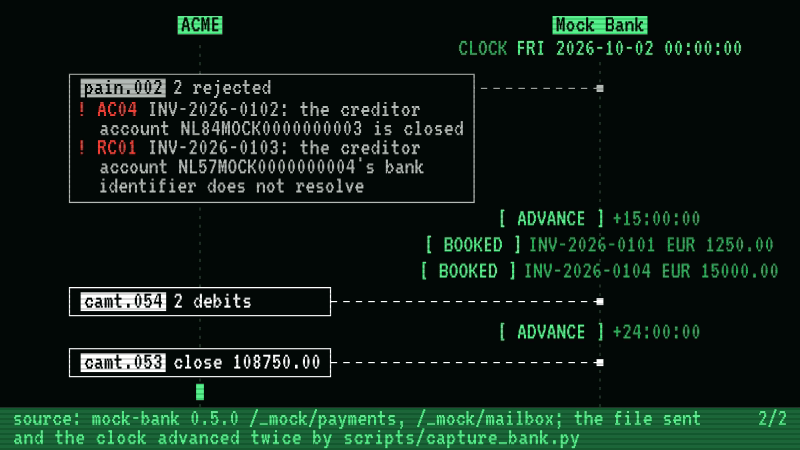
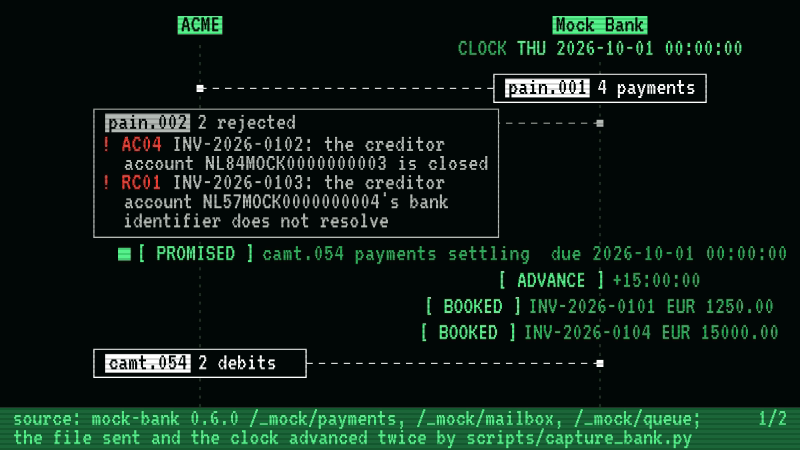
Films: mock-bank 0.6.0 re-cuts of both bank films; a clearer Hanzi caption
From mock-films d2c09aa: bank_four_payments_film (35.15 s, sha256
d3322345...) and bank_returned_film (53.2 s, 9b02b061...) re-captured
at mock-bank 0.6.0, with new alt text from the index. The four-payments
still is now the frame at poster_ms 22200, the end of act one: the file,
both rejections, the promised camt.054, both bookings and the debit.
The returned film's still stays its last frame.

The Hanzi Cards caption now says which card is in which script:
'公共汽车 (bus) in simplified characters, 服務員 (waiter) in
traditional'.

Claude-Session: https://claude.ai/code/session_015RDTBgG3oYVSZTAaz1gNwq

diff --git a/index.html b/index.html
@@ -90,7 +90,7 @@ curl -X POST --data-binary @order.edi http://127.0.0.1:8080/edi</code></pre>
 	<div class="project">
 		<h3><a href="https://github.com/rseufert/mock-bank">mock-bank</a></h3>
 		<figure class="film">
-			<a class="play" href="/blog/bank_four_payments_film.gif" title="play the film"><img src="/blog/bank_four_payments_film.png" width="800" height="450" loading="lazy" alt="ACME sends mock-bank a file of four payments, and the bank's status report rejects two, giving a reason for each. The capture then advances the bank's clock twice: the other two payments are booked and reported in a debit notification, and then in a statement. The rejected two appear in neither."></a>
+			<a class="play" href="/blog/bank_four_payments_film.gif" data-poster-ms="22200" title="play the film"><img src="/blog/bank_four_payments_film.png" width="800" height="450" loading="lazy" alt="ACME sends mock-bank a file of four payments, and the bank's status report rejects two, giving a reason for each. The bank's own queue says a debit notification is due on the settlement day, which the film shows as a promise. The capture then advances the bank's clock twice: the other two payments are booked and reported in the debit notification, which keeps the promise, and then in a statement. The rejected two appear in neither."></a>
 			<figcaption>a payment file, half of it rejected <span>drawn by mock-films from a real run</span></figcaption>
 		</figure>
 		<p>A mock bank that speaks ISO 20022 and NACHA, over HTTP and over a drop folder, so you can test a payment integration without a bank, a test IBAN, or six weeks of onboarding. It is not a ledger and not a payment provider: it holds four accounts, moves balances in minor units, and refuses by name anything it does not implement.</p>
@@ -118,7 +118,7 @@ curl -X POST --data-binary @order.edi http://127.0.0.1:8080/edi</code></pre>
 			<li><strong>Worked end to end with the other mocks.</strong> <code>payment_run</code> does what SAP's <code>F110</code> does: select the open items that are due from <a href="https://github.com/rseufert/mock-sap">mock-sap</a>, pay them in one file, and post each statement back so SAP clears what was paid and reopens what came back. Twenty-six tests, run in CI against mock-sap from PyPI - twice, once over ISO 20022 and once over ACH, because the same run has to survive both.</li>
 		</ul>
 		<figure class="film">
-			<a class="play" href="/blog/bank_returned_film.gif" title="play the film"><img src="/blog/bank_returned_film.png" width="800" height="450" loading="lazy" alt="ACME pays one invoice of EUR 1250.00 through mock-bank; it is accepted, and booked and debited on Friday. The capture script then advances the bank's clock a day at a time: Saturday and Sunday are not business days, and no message about the payment arrives on Monday or Tuesday. On Wednesday a pacs.004 returns the payment with reason AC04 and a camt.054 credits the money back. The script had set ACME's account to have payments returned three business days later with AC04, one of the mock's behaviours."></a>
+			<a class="play" href="/blog/bank_returned_film.gif" title="play the film"><img src="/blog/bank_returned_film.png" width="800" height="450" loading="lazy" alt="ACME pays one invoice of EUR 1250.00 through mock-bank; it is accepted, and the bank's own queue says a debit notification is due on Friday, which the film shows as a promise. On Friday the payment is booked and debited, and the queue then holds two more promises, a camt.054 and a pacs.004 due the next Wednesday. The capture script advances the bank's clock a day at a time: Saturday and Sunday are not business days, and no message about the payment arrives on Monday or Tuesday. On Wednesday the pacs.004 returns the payment with reason AC04 and the camt.054 credits the money back, each keeping its promise. The script had set ACME's account to have payments returned three business days later with AC04, one of the mock's behaviours."></a>
 			<figcaption>a payment that comes back <span>drawn by mock-films from a real run</span></figcaption>
 		</figure>
 <pre><code>pip install mock-bank
@@ -241,7 +241,7 @@ python3 -m unittest -v mockbank.examples.test_payment_run</code></pre>
 		<figure class="shot pair">
 			<img src="/flipper/hanzi_cards.png" width="512" height="256" loading="lazy" alt="The back of a Hanzi Cards card on the Flipper's orange screen: the characters 公共汽车 large across the top, the pinyin gōng gòng qì chē below them, then the English &quot;bus&quot;, with &quot;Again&quot; at the bottom left and &quot;Good&quot; at the bottom right.">
 			<img src="/flipper/hanzi_cards_traditional.png" width="512" height="256" loading="lazy" alt="Another card in traditional characters: 服務員, the pinyin fú wù yuán, and the English &quot;waiter, attendant&quot;, with Again and Good at the bottom.">
-			<figcaption><span lang="zh-Hans">公共汽车</span>, bus, and <span lang="zh-Hant">服務員</span> in traditional characters</figcaption>
+			<figcaption><span lang="zh-Hans">公共汽车</span> (bus) in simplified characters, <span lang="zh-Hant">服務員</span> (waiter) in traditional</figcaption>
 		</figure>
 		<p>Mandarin flashcards: simplified or traditional characters, pinyin with tone marks, and the tones played on the speaker.</p>
 		<ul class="features">
